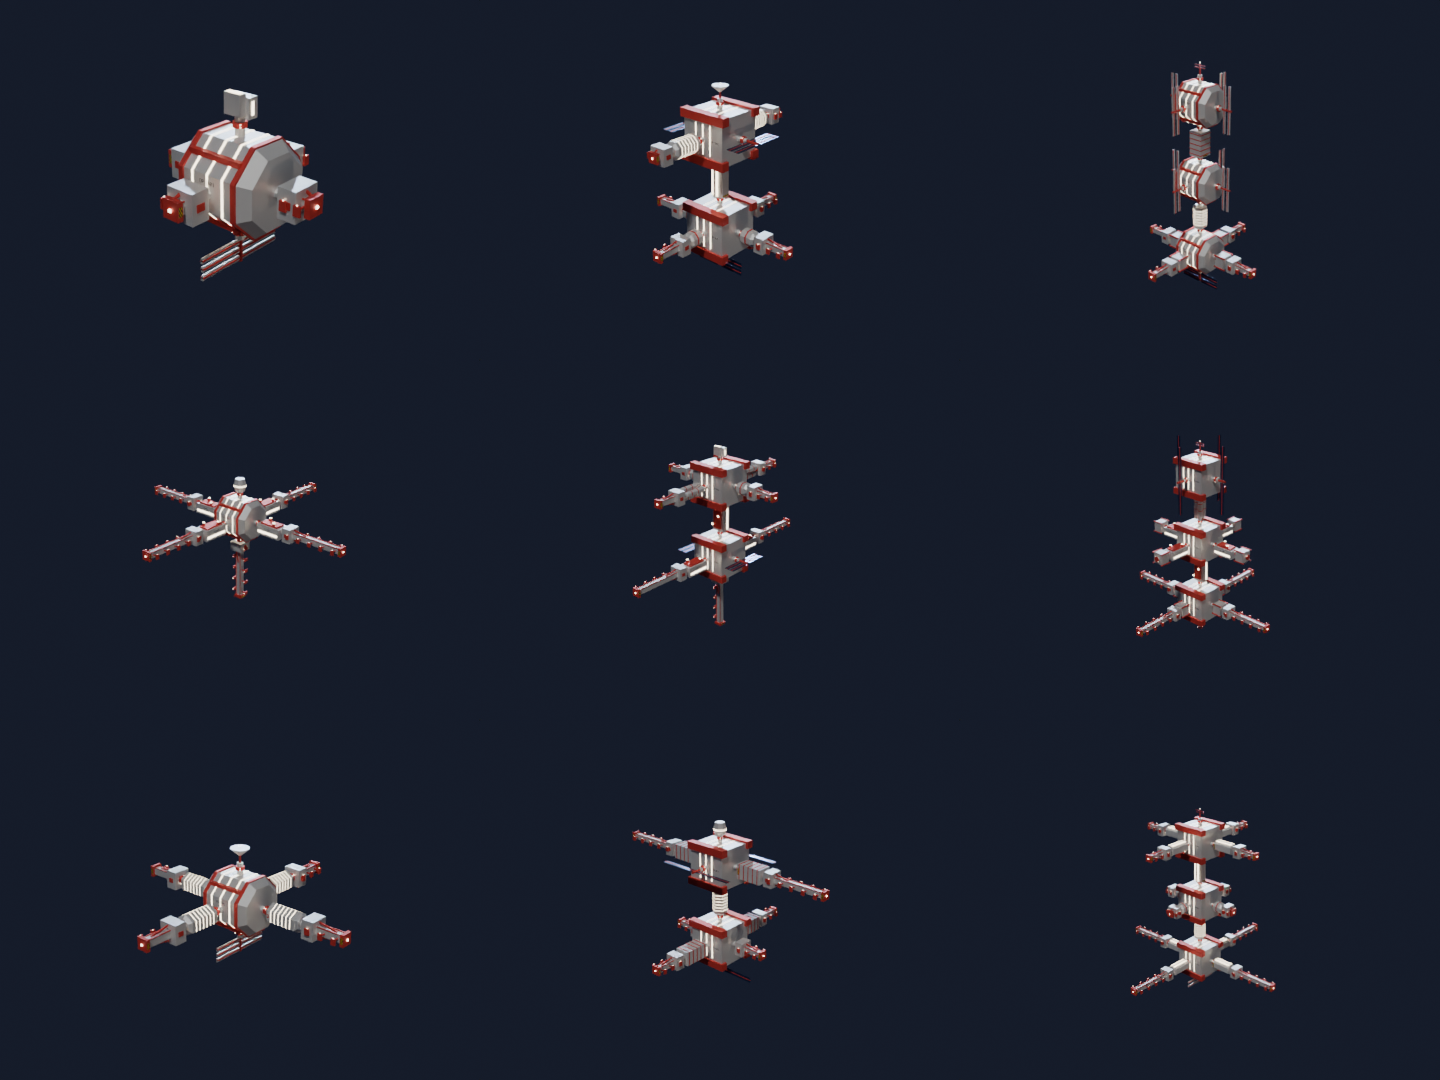
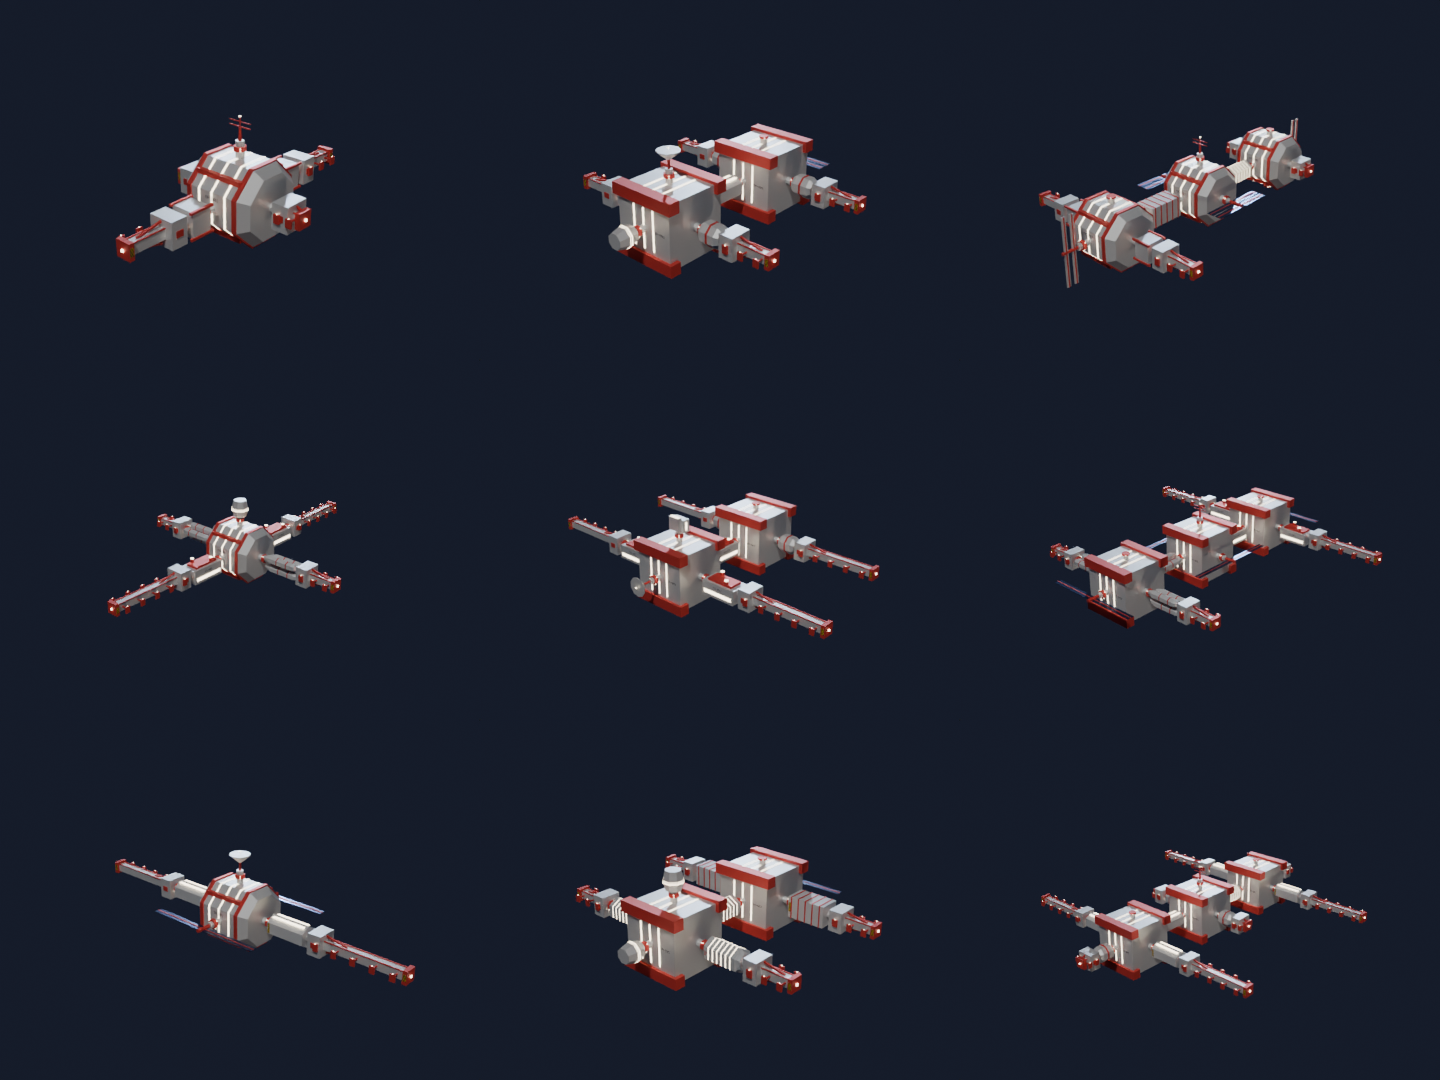
Stations: flat spine for the top-down view
spine = auto | horizontal | vertical: massive stations (auto) put their cores
side by side along X with every arm and berth in the same plane - a pair of arms
across the spine on each core (every other one docks), arms or end modules at
the spine's ends, an antenna/command on top of the middle core. Truss stations
stay stacked by default.

Claude-Session: https://claude.ai/code/session_0189xRjiiTMx3apXWGHbTKDT

diff --git a/shipgen/stations/__init__.py b/shipgen/stations/__init__.py
@@ -248,21 +248,26 @@ def _layout(p) -> list[Placement]:
         return Placement(node, designs[node], Matrix.Identity(3),
                          Vector(port_cell) + direction - Vector(own), c)
 
+    flat = p["spine"] == "horizontal" or (p["spine"] == "auto" and massive)
+    axis = Vector((1, 0, 0)) if flat else up  # the spine: side by side (top-down view) or stacked
     first = Placement(node, designs[node], Matrix.Identity(3), Vector((0, 0, 0)), contract(node, designs[node]))
     lay.add(first)
     hubs = [first]
     for _ in range(HUBS[p["size"]] - 1):
         below = hubs[-1]
-        port = lay.port_towards(below, up)
-        core = lay.candidate(rng.choice(role["core"]), below, port, Vector((1, 0, 0)))
-        hub = node_at(core.ports()[1][1], up)
+        port = lay.port_towards(below, axis)
+        core = lay.candidate(rng.choice(role["core"]), below, port, up if flat else Vector((1, 0, 0)))
+        hub = node_at(core.ports()[1][1], axis)
         if not (lay.fits(core) and lay.fits(hub)):
             break
         lay.add(core, below, port)
         core.connected.add(1)
         lay.add(hub)
-        hub.connected.add(lay.port_towards(hub, -up))
+        hub.connected.add(lay.port_towards(hub, -axis))
         hubs.append(hub)
+    if flat:
+        _flat_arms(p, rng, role, lay, hubs, axis, up)
+        return lay.placed
     # arms: symmetric chains on every hub; the first hub always gets a dock
     turn = Matrix.Rotation(math.pi / 2, 3, "Z")
     base = Vector((1, 0, 0)) if rng.random() < 0.5 else Vector((0, 1, 0))
@@ -278,6 +283,24 @@ def _layout(p) -> list[Placement]:
     for hub, d, ends in ((hubs[-1], up, role["top"]), (hubs[0], -up, role["bottom"])):
         lay.chain([rng.choice(ends)], [(hub, d)], [Vector((1, 0, 0))])
     return lay.placed
+
+
+def _flat_arms(p, rng, role, lay, hubs, axis: Vector, up: Vector) -> None:
+    """Arms for a horizontal spine, all in the plane (berths flat, seen from above): a
+    symmetric pair across the spine on every node, every other one with docks; at the two ends of the
+    spine another pair of arms (``four``) or end modules (``two``); an antenna or command module
+    on top of the middle node."""
+    side = axis.cross(up)
+    for i, hub in enumerate(hubs):
+        recipe = rng.choice(role["docks"] if i % 2 == 0 else role["arms"])  # every other node docks
+        lay.chain(recipe, [(hub, side), (hub, -side)], [up, up])
+    ends = [(hubs[0], -axis), (hubs[-1], axis)]
+    if p["symmetry"] == "four":
+        lay.chain(rng.choice(role["arms"]), ends, [up, up])
+    else:
+        for (hub, d), pool in zip(ends, (role["bottom"], role["top"])):
+            lay.chain([rng.choice(pool)], [(hub, d)], [up])
+    lay.chain([rng.choice(role["top"])], [(hubs[len(hubs) // 2], up)], [axis])
 
 
 # ---------------------------------------------------------------- objects
@@ -422,6 +445,7 @@ def generate(raw_params: dict) -> Station:
     station = Station(root, parts, placements, p, list(result.warnings), colliders, empties)
     station.stats = _stats(parts, empties)
     root["shipgen_station"] = {"seed": p["seed"], "role": p["role"], "size": p["size"], "build": p["build"],
+                               "spine": p["spine"],
                                "grid_m": GRID,
                                "stats": station.stats}
     return station

diff --git a/tests/test_stations.py b/tests/test_stations.py
@@ -114,6 +114,27 @@ class StationTest(unittest.TestCase):
                          ["Hub_0", "Silo_0", "Hub_1", "Silo_1", "Silo_2", "DockL_0"])
         self.assertFalse(any(pl.kind in ("core", "hall", "smelter") for pl in st.placements))
 
+    def test_spine_orientation(self):
+        """Massive stations lie flat (cores side by side, docks in the plane: top-down view);
+        truss stations stack their hubs, unless asked otherwise."""
+        from mathutils import Vector
+
+        cases = (({"build": "massive"}, "core", "flat"), ({"build": "massive", "spine": "vertical"}, "core", "stack"),
+                 ({}, "hub", "stack"), ({"spine": "horizontal"}, "hub", "flat"))
+        for extra, node, shape in cases:
+            with self.subTest(**extra):
+                st = self.stations.generate({"seed": 5, "role": "trade", "size": "large", **extra})
+                nodes = [pl for pl in st.placements if pl.kind == node]
+                self.assertEqual(len(nodes), 3)
+                zs = {pl.origin.z for pl in nodes}
+                self.assertEqual(len(zs) == 1, shape == "flat")
+                if shape == "flat":  # berths in the plane of the nodes
+                    bpy.context.view_layer.update()
+                    for e in st.empties:
+                        if "station_berth" in e:
+                            up = e.matrix_world.to_3x3() @ Vector((0, 0, 1))
+                            self.assertGreater(up.z, 0.99, e.name)
+
     def test_deterministic(self):
         a = [(pl.kind, tuple(pl.origin)) for pl in self.stations.generate({"seed": 9, "size": "large"}).placements]
         b = [(pl.kind, tuple(pl.origin)) for pl in self.stations.generate({"seed": 9, "size": "large"}).placements]

diff --git a/scripts/station_demo.py b/scripts/station_demo.py
@@ -5,6 +5,7 @@
 modules.png   every module design of the kit, one per tile
 stations.png  roles (rows: outpost, mining, trade) x sizes (columns: small, medium, large)
 stations_massive.png  the same with build = massive (3x3x3 cores, thick modules, heavy docks)
+stations_massive_top.png  large massive stations from above (flat spine, the game's view)
 docked.png    stations with shop ships lying at their berths (scale check; top truss, bottom massive)
 wrecks.png    wrecks of shop models (rows: miner_m, hauler_m, hauler_l; damage and breaks rise to the right)
 """
@@ -107,6 +108,12 @@ def main():
                     print(build, role, size, st.stats["berths"], st.stats["modules"])
                     paths.append(render(st, os.path.join(tmp, f"{build}_{role}_{size}.png")))
             sheet(os.path.join(args.out, out), paths, 3)
+            if build == "massive":  # flat: the game's top-down view
+                tops = []
+                for role in ("outpost", "mining", "trade"):
+                    st = stations.generate({"role": role, "size": "large", "seed": 3, "build": build})
+                    tops.append(render(st, os.path.join(tmp, f"top_{role}.png"), view="top"))
+                sheet(os.path.join(args.out, "stations_massive_top.png"), tops, 3)
 
     if "docked" in only:
         paths = []

diff --git a/shipgen/stations/params.py b/shipgen/stations/params.py
@@ -11,6 +11,7 @@ ROLES = ("outpost", "mining", "trade")
 SIZES = ("small", "medium", "large")
 SYMMETRIES = ("two", "four")
 BUILDS = ("truss", "massive")
+SPINES = ("auto", "horizontal", "vertical")
 
 SCHEMA: dict[str, Any] = {
     "seed": Field(int, 1, 0, 2**31 - 1, description="Random seed: layout choices and module designs"),
@@ -19,6 +20,9 @@ SCHEMA: dict[str, Any] = {
     "symmetry": Field(str, "four", choices=SYMMETRIES, description="Arms per hub: two (opposite) or four"),
     "build": Field(str, "truss", choices=BUILDS,
                    description="truss = slim hubs and piers; massive = 48 m cores, thick halls, heavy docks"),
+    "spine": Field(str, "auto", choices=SPINES,
+                   description="Hubs/cores side by side (horizontal, flat for a top-down view) or stacked "
+                               "(vertical); auto = horizontal for massive, vertical for truss"),
     "style": {
         "palette": Field(str, "white_red", choices=PALETTES, description="Paint scheme (shared with the ships)"),
         "wear": Field(float, 0.3, 0.0, 1.0, description="Dull, rough paint"),

diff --git a/shipgen/ui.py b/shipgen/ui.py
@@ -435,7 +435,7 @@ class SHIPGEN_PT_wrecks(bpy.types.Panel):
 # ---------------------------------------------------------------- stations
 
 STATION_GROUPS = (
-    ("Layout", ("seed", "role", "size", "symmetry", "build")),
+    ("Layout", ("seed", "role", "size", "symmetry", "build", "spine")),
     ("Style", ("style__palette", "style__wear", "style__glow_color")),
 )
 

diff --git a/docs/stations/README.md b/docs/stations/README.md
@@ -78,8 +78,13 @@ Zeilen: Außenposten, Mining, Handel; Spalten: small, medium, large.
 
 ![Massive Stationen](stations_massive.png)
 
-Dasselbe Layout-Prinzip, aber mit 3 × 3 × 3-Kernen (48 m) statt Hubs, Modulen, die ihre Zellen
-füllen (Halle, Schmelzwerk, Quartiere, Schott), und schweren Andockarmen. Gleiches Raster und
+3 × 3 × 3-Kerne (48 m) statt Hubs, Module, die ihre Zellen füllen (Halle, Schmelzwerk,
+Quartiere, Schott), und schwere Andockarme. Die Kerne liegen **waagrecht nebeneinander**
+(`spine = auto` → horizontal), alle Arme und Liegeplätze in derselben Ebene – gemacht für die
+Draufsicht im Spiel: an jedem Kern ein Paar Arme quer zum Rückgrat (jeder zweite mit
+Andockarmen), an den beiden Enden ein weiteres Paar (`four`) oder Endmodule (`two`), oben auf
+dem mittleren Kern Antenne oder Kommando. `spine = horizontal` legt auch schlanke Stationen
+flach, `spine = vertical` stapelt auch massive. Gleiches Raster und
 gleiche Ports wie der schlanke Stil (`truss`, Standard) – beide Baukästen lassen sich mischen.
 Die schlanken Stationen bleiben für jeden Seed genau wie bisher (die massiven Module ziehen ihre
 Zufallszahlen aus einem eigenen Strom). Presets: `mining_m_massive`, `trade_l_massive`.

diff --git a/CLAUDE.md b/CLAUDE.md
@@ -114,7 +114,8 @@ same class, mining and cargo type share the seed streams).
   reserved berth cells; `ModuleKitTest` checks every design) and the designs; `__init__.py` lays
   out stations (spine of hubs, symmetric arm chains per role) and builds the kit (`build_kit`).
   `build`: `truss` (slim) or `massive` (`modules.MASSIVE`: 3x3x3 `core` nodes, cell-filling
-  modules, heavy docks); massive kinds draw designs from their own rng stream.
+  modules, heavy docks); massive kinds draw designs from their own rng stream. `spine`: auto
+  (massive horizontal = flat for the game's top-down view, truss vertical), horizontal, vertical.
   Rng draws must never depend on set order (BMesh element hashes are addresses).
   Presets in `presets/stations/`.
 - `shipgen/atlas.py` – palette atlas at export (one `ShipGen_Atlas` material per mesh);

diff --git a/docs/export_format.md b/docs/export_format.md
@@ -468,7 +468,7 @@ Immer `volume_m3`, `mass_t`; je nach Art zusätzlich `general_m3` (storage), `or
 
 ```json
 {
-  "seed": 2, "role": "mining", "size": "medium", "build": "truss", "grid_m": 16.0,
+  "seed": 2, "role": "mining", "size": "medium", "build": "truss", "spine": "auto", "grid_m": 16.0,
   "stats": {"modules": 19, "volume_m3": 22297.3, "mass_t": 2230.1,
             "general_m3": 0.0, "ore_m3": 4469.7, "fluid_m3": 0.0, "crew": 40,
             "refine_m3_h": 103.4, "power_kw": 243.6, "cooling_kw": 0.0,
